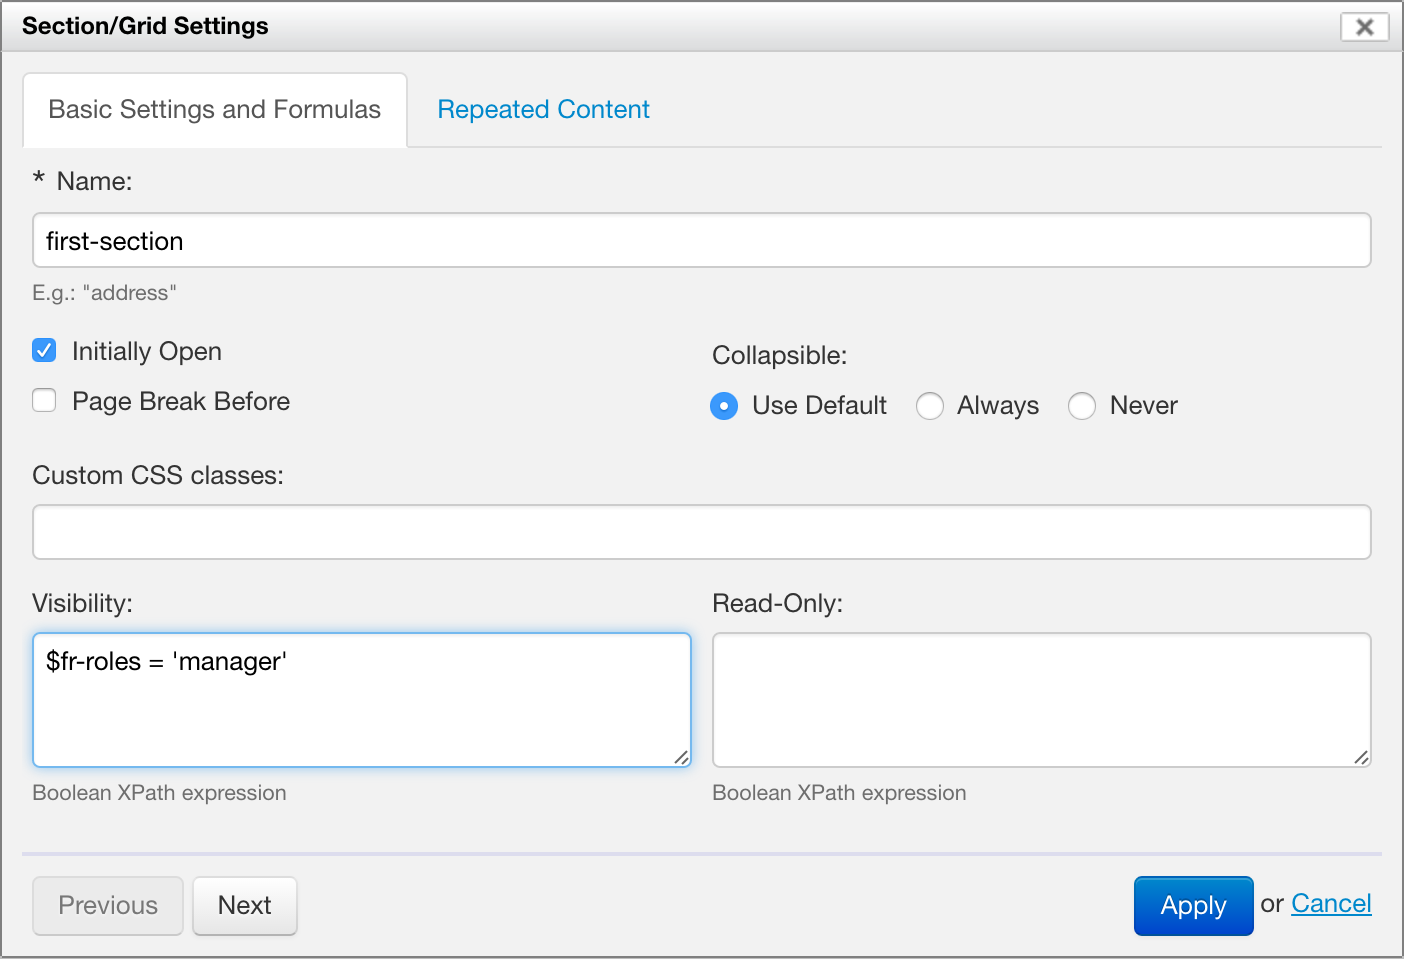
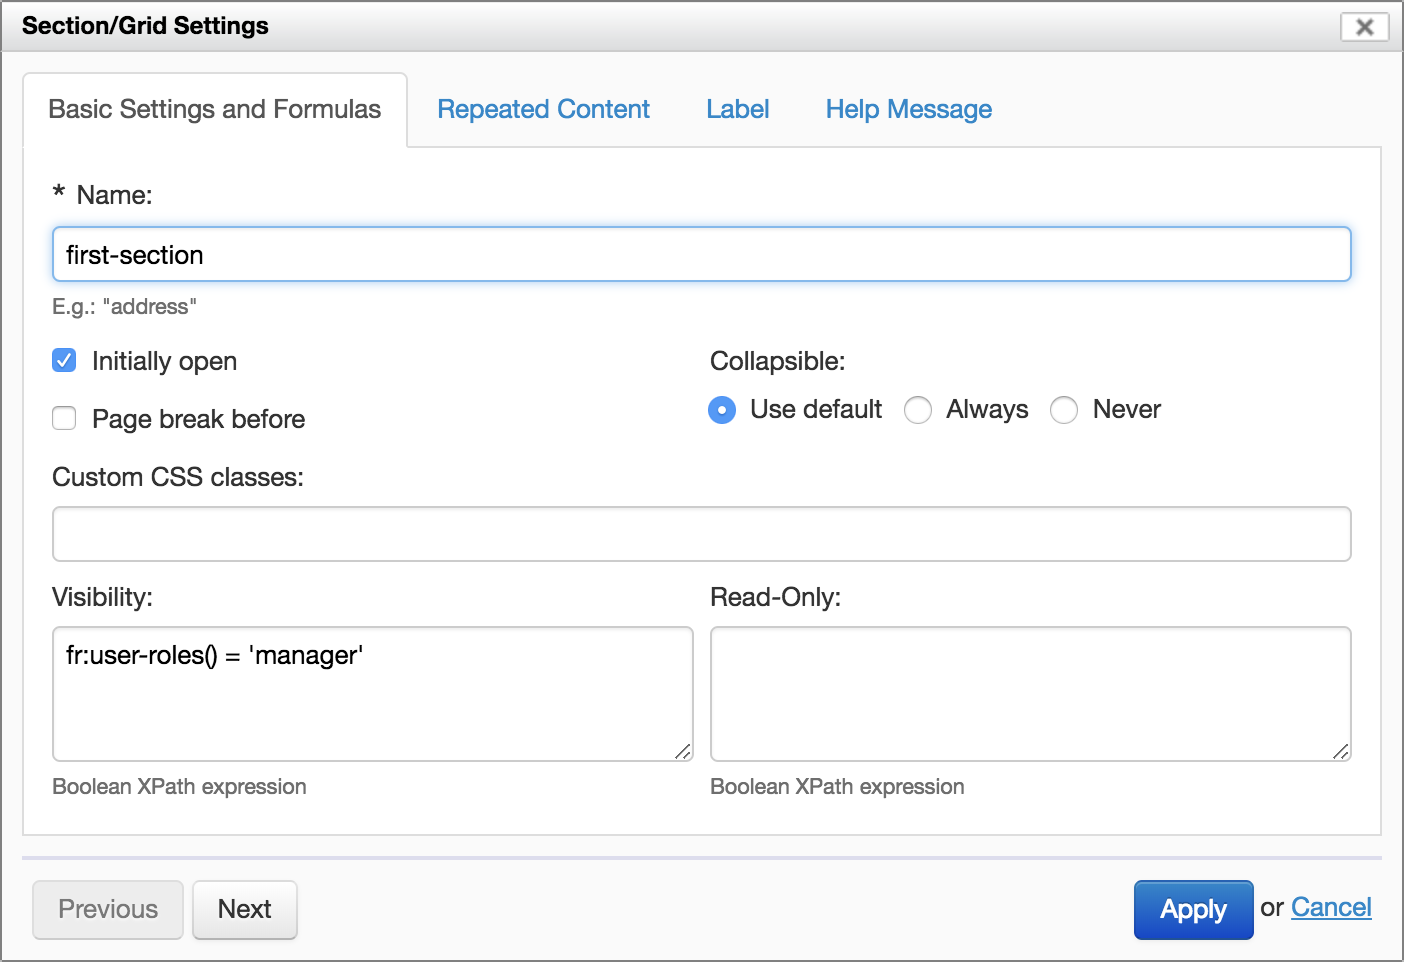
Sections: document repeated sections and dynamic label/help

diff --git a/form-builder/section-settings.md b/form-builder/section-settings.md
@@ -1,26 +1,36 @@
 # Section settings
 
-
-
 ## Basic settings
-
-Each section has a _name_ or identifier, which determines how section data is represented in XML. The section name specifies an identifier for the section, unique in the entire form. If no section name is explicitly specified, Form Builder assigns a default name, such as "section-1".
 
 ![](images/section-settings.png)
 
-## Section collapsing
+### Section name
+
+Each section has a _name_ or identifier, which determines how section data is represented in XML. The section name specifies an identifier for the section, unique in the entire form. If no section name is explicitly specified, Form Builder assigns a default name, such as "section-1".
+
+### Section collapsing
 
 \[SINCE Orbeon Forms 2016.1\]
 
-When not in wizard mode, a section can be open or closed (collapsed). By default, sections are open, unless the Initially Open checkbox is deselected.
+The following only applies when the form doesn't use the [Wizard view](../form-runner/feature/wizard-view.md).
 
-By default, when not in wizard mode, the user can open and close (collapse) a section. The default can be change via a property. It is also possible to specify that a section is always collapsible, or never collapsible.
+A section can be open or closed (collapsed). By default, sections are open when the form loads, unless the "Initially Open" checkbox is *deselected*.
 
-## Custom CSS classes
+The "Collapsible" radio buttons control whether the user can collapse sections:
+
+- __Use Default:__ use  the configuration specified with the `oxf.xforms.xbl.fr.section.collapsible` property
+- __Always:__ the section is collapsible no matter what the `oxf.xforms.xbl.fr.section.collapsible` property specifies
+- __Never:__ the section is not collapsible no matter no matter what the `oxf.xforms.xbl.fr.section.collapsible` property specifies
+
+### Page breaks
+
+When producing PDF automatically, the "Page break before" checkbox, when enabled, ensures that the given section starts at the top of a new page. 
+
+### Custom CSS classes
 
 The "Custom CSS Classes" field allows adding CSS classes which will be placed on the control in the resulting HTML. This can be used for custom styling.
 
-## Formulas
+### Formulas
 
 * **Visibility:** Boolean expression specifying whether the section is visible.
     * If this field is left blank, then the section is always visible, unless an enclosing section is not visible.
@@ -31,6 +41,35 @@ The "Custom CSS Classes" field allows adding CSS classes which will be placed on
 
 XPath expressions are described in more details in [Formulas](formulas.md).
 
+## Repeated Content
+
+Like [repeated grids](repeated-grids.md), section content can also be repeated. The section titles appears only once, but
+the content of the section can have multiple repetitions. The same settings that apply to repeated grids apply to
+repeated sections. See [repeated grids](repeated-grids.md) for details.
+
+![](images/section-settings-repeat.png)
+
+## Label and help message
+
+The label can be configured directly in the form area, by clicking on the section title, or in the "Label" tab.
+
+The help message is configured in the "Help Message" tab. Similarly, the help message can be in plain text or use rich text (HTML). 
+
+### Dynamic label and help message
+
+[SINCE Orbeon Forms 2018.1]
+
+Sections support *dynamic* labels and help messages. This means that, instead of being specified once and for all at form design time, labels and help messages can incorporate dynamic parts such as control values and other custom expressions.
+
+For more, see [Template syntax](template-syntax.md).
+
+![](images/section-settings-label.png)
+
+![](images/section-settings-help.png)
+
 ## See also
 
+- [Repeated grids](repeated-grids.md)
 - [Formulas](formulas.md)
+- [Template syntax](template-syntax.md)
+- [Wizard view](../form-runner/feature/wizard-view.md)

diff --git a/form-builder/control-settings.md b/form-builder/control-settings.md
@@ -113,7 +113,7 @@ See also [Improving how we show help messages](http://blog.orbeon.com/2014/01/im
 
 [SINCE Orbeon Forms 2018.1]
 
-Orbeon Forms supports *dynamic* labels, hints, and help messages. This means that, instead of being specified once and for all at form design time, labels, hints and help messages can incorporate dynamic parts such as control values and other custom expressions.
+Controls support *dynamic* labels, hints, and help messages. This means that, instead of being specified once and for all at form design time, labels, hints and help messages can incorporate dynamic parts such as control values and other custom expressions.
 
 For more, see [Template syntax](template-syntax.md).
 

diff --git a/form-builder/repeated-grids.md b/form-builder/repeated-grids.md
@@ -1,7 +1,5 @@
 # Repeated grids
 
-
-
 ## Introduction
 
 Form Builder supports grids with repeated rows. You can repeat a single row (which is the most common case), or multiple heterogeneous (that is with different controls) rows.
